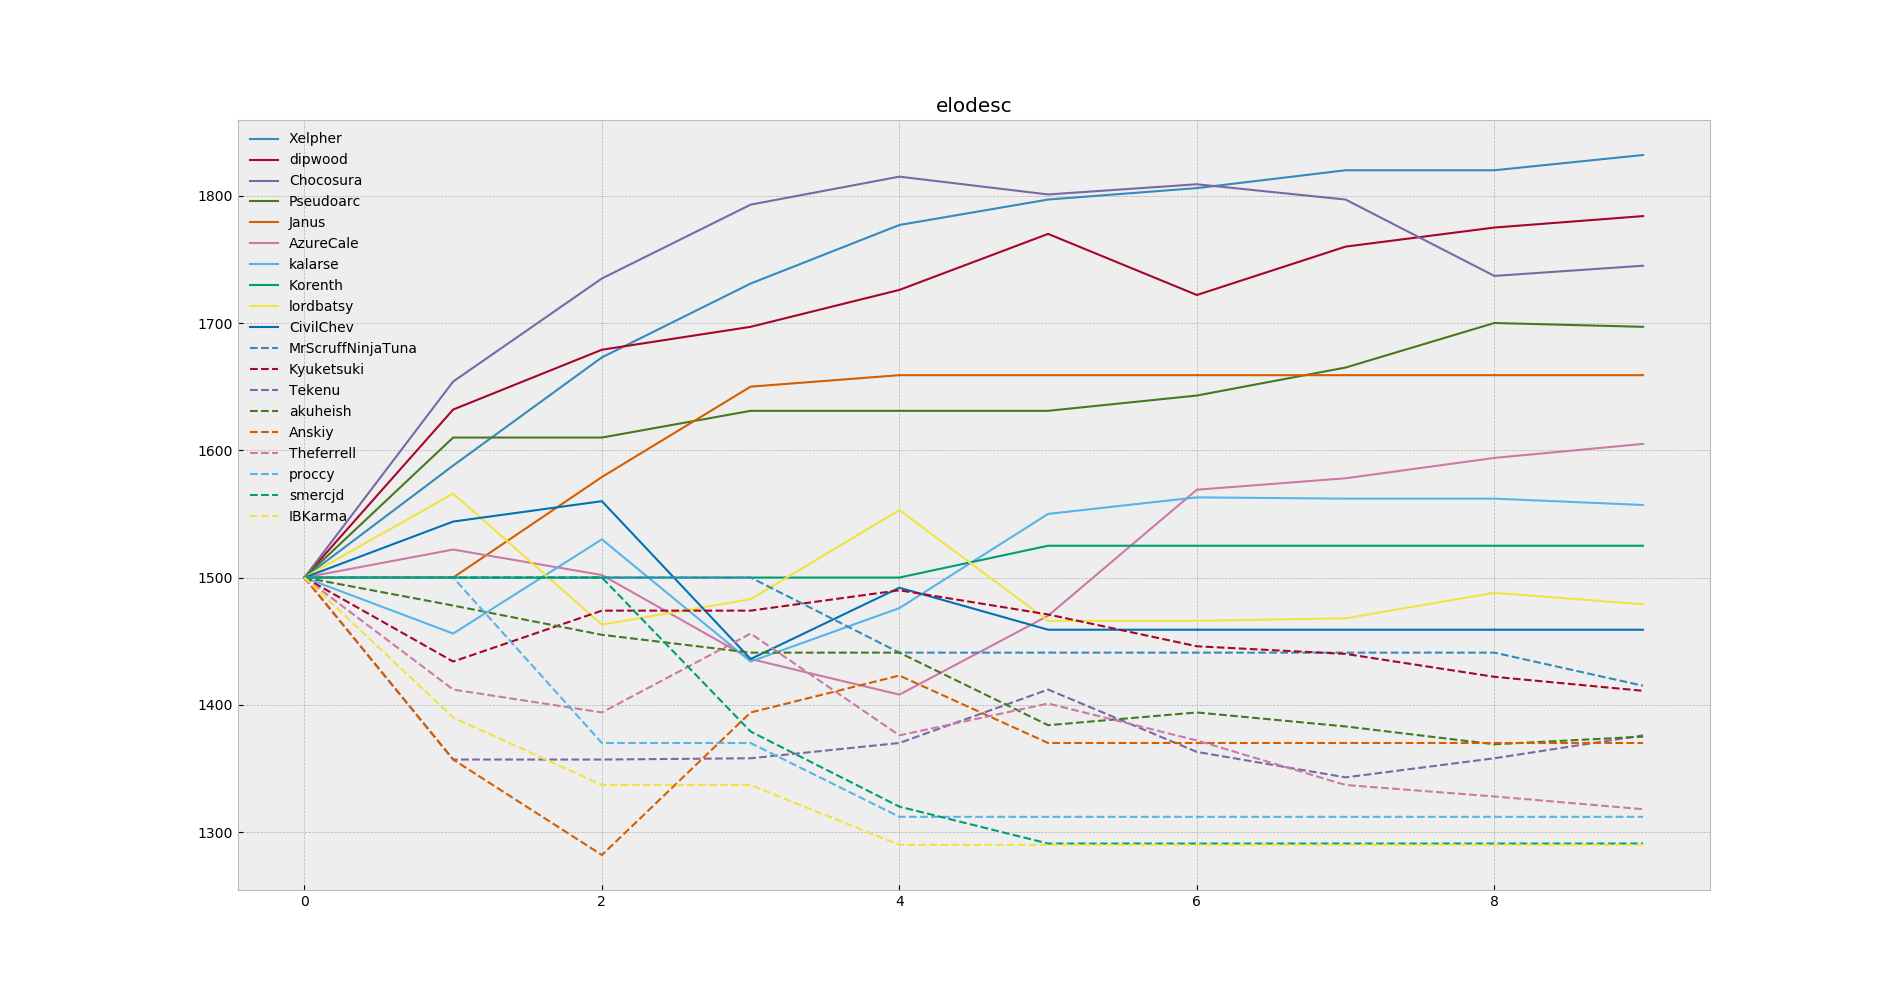
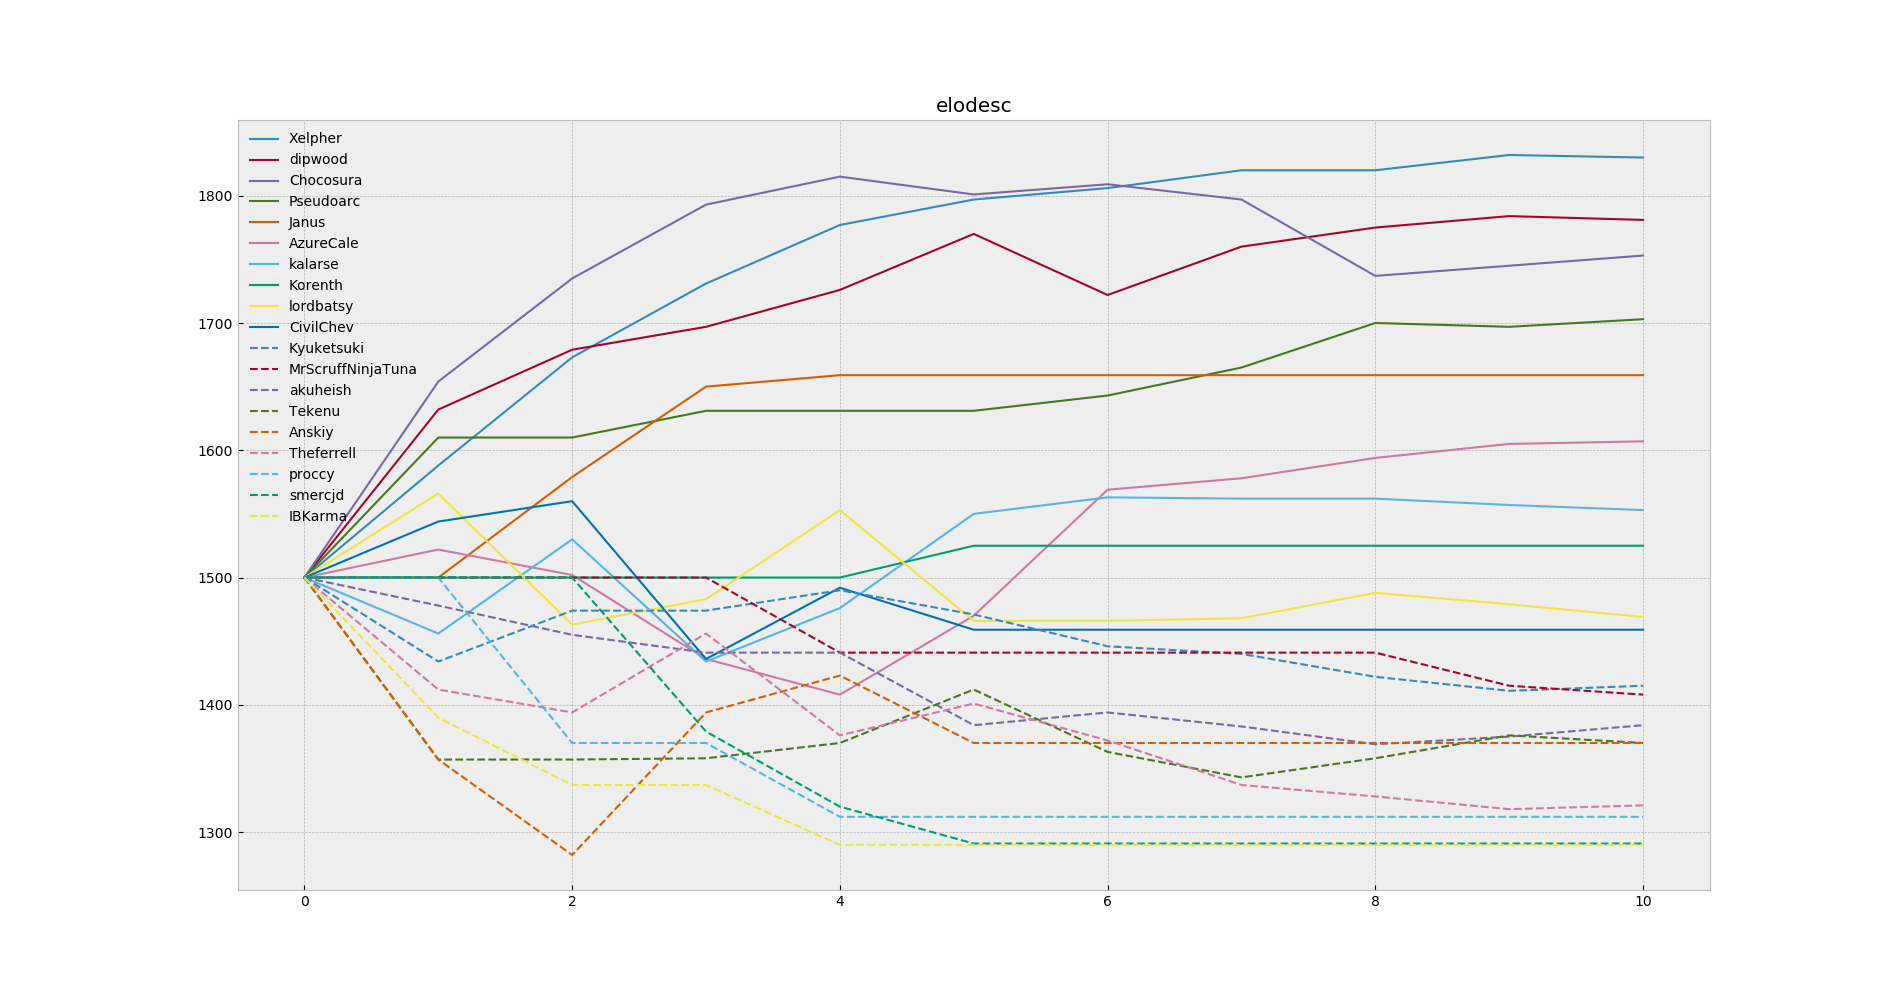
Add week 10

diff --git a/races.py b/races.py
@@ -32,5 +32,9 @@ races = [
         {"finishers": ["Xelpher", "dipwood", "Chocosura", "AzureCale", "Pseudoarc", "Tekenu", "kalarse", "akuheish", "lordbatsy", "Kyuketsuki", "Theferrell"],
          "forfeits": ["MrScruffNinjaTuna"],
          "nonparticipants": [],
-         "times": ['01:14:50', '01:18:57', '01:24:06', '01:27:40', '01:34:30', '01:36:17', '01:39:51', '1:40:52', '1:48:08', '01:49:28', '02:06:23']}
+         "times": ['01:14:50', '01:18:57', '01:24:06', '01:27:40', '01:34:30', '01:36:17', '01:39:51', '1:40:52', '1:48:08', '01:49:28', '02:06:23']},
+        {"finishers": ["Chocosura", "Pseudoarc", "Xelpher", "dipwood", "AzureCale", "akuheish", "Kyuketsuki", "kalarse", "Theferrell"],
+         "forfeits": ["lordbatsy", "Tekenu", "MrScruffNinjaTuna"],
+         "nonparticipants": [],
+         "times": ["01:52:35", "01:55:53", "02:05:09", "02:06:20", "02:10:00", "02:21:03", "02:26:02", "02:31:16", "02:51:45"]}
         ]
